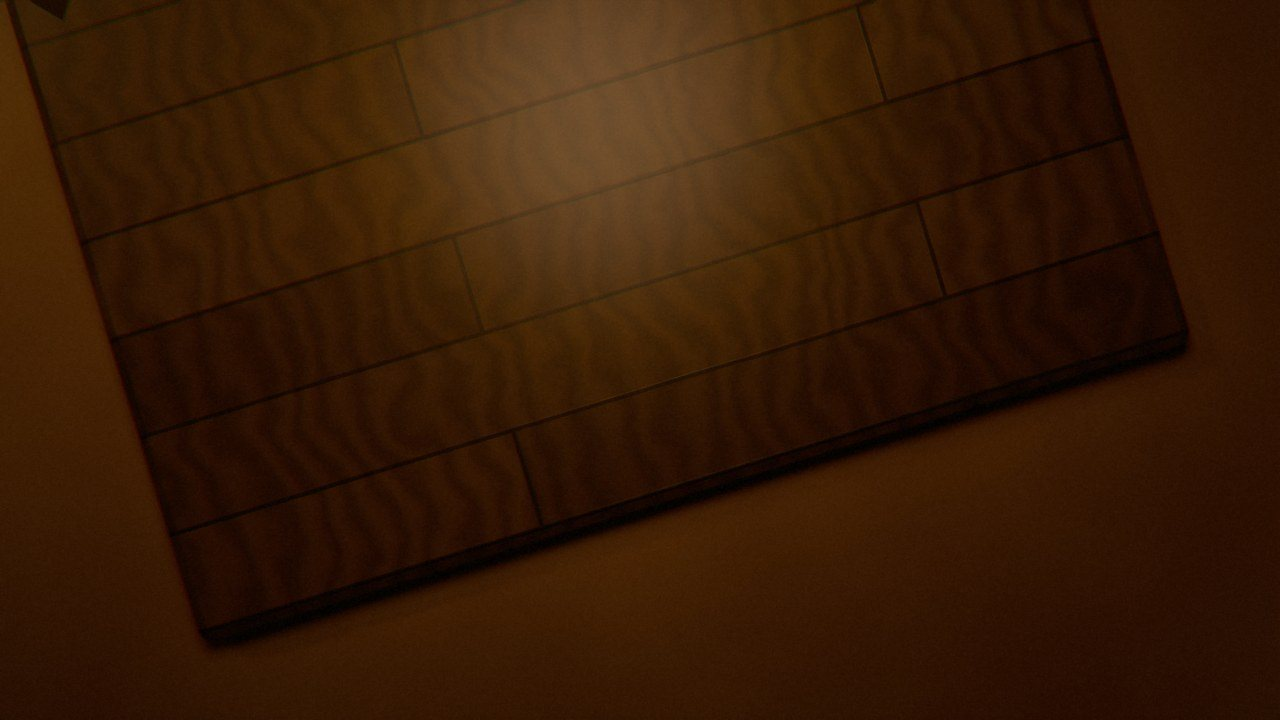
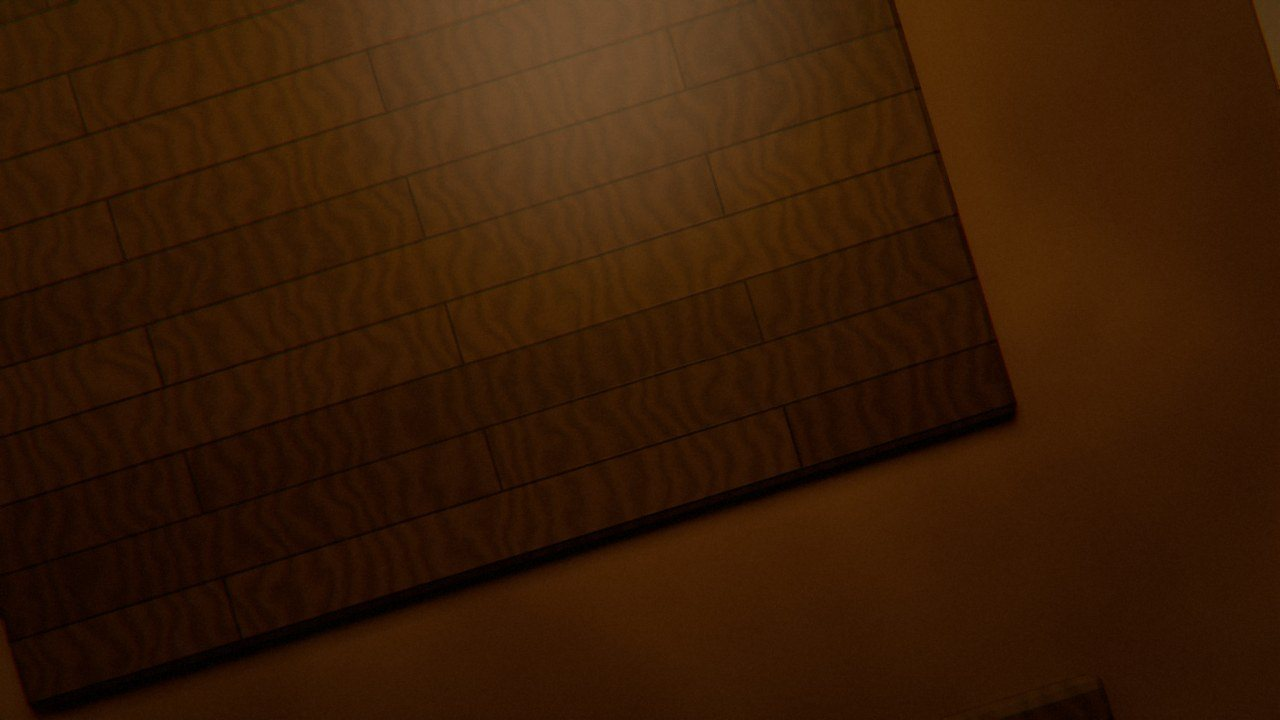
Chapter 1 door: five-frame swing that shuts fully across the tilted view
Claude-Session: https://claude.ai/code/session_017aRE9KzReX3GXwj8sX4dxv

diff --git a/game/index.html b/game/index.html
@@ -1100,7 +1100,7 @@ if (typeof module !== 'undefined') module.exports = C1;
     'ringtone', 'phone_pickup', 'phone_hangup', 'line_static',
     'wing_flap', 'wing_flap_far', 'wind_gust', 'beetles', 'beetle_scatter', 'aparador_creak', 'kumot_breath', 'theme_menu',
     'step_w1', 'step_w2', 'step_w3', 'step_c1', 'step_c2', 'step_c3'];
-  IMG.push('c1_door_sw40', 'c1_door_sw22', 'c1_door_sw8', 'c1_hub', 'c1_hub_open', 'c1_hub_kumot', 'c1_hub_lit', 'c1_door_ajar', 'c1_peek_0', 'c1_peek_1', 'c1_peek_2', 'c1_peek_3', 'c1_door_closed', 'c1_win_closed', 'c1_win_shadow', 'c1_win_open',
+  IMG.push('c1_door_sw80', 'c1_door_sw62', 'c1_door_sw46', 'c1_door_sw32', 'c1_door_sw18', 'c1_hub', 'c1_hub_open', 'c1_hub_kumot', 'c1_hub_lit', 'c1_door_ajar', 'c1_peek_0', 'c1_peek_1', 'c1_peek_2', 'c1_peek_3', 'c1_door_closed', 'c1_win_closed', 'c1_win_shadow', 'c1_win_open',
     'c1_win_s1', 'c1_win_s2', 'c1_win_s3', 'c1_scare_barang', 'hero_barang', 'c1_under', 'c1_under_kumot');
   for (var _i = 0; _i < 5; _i++) IMG.push('c1_cab_' + _i, 'c1_cab_' + _i + '_lit');
   var VOICE = [];
@@ -1857,7 +1857,7 @@ if (typeof module !== 'undefined') module.exports = C1;
   // the door swinging shut (or back open) in three pre-rendered frames, then the held/ajar view
   var swing = null;
   function c1Swing(close) {
-    var all = ['c1_door_sw40', 'c1_door_sw22', 'c1_door_sw8'], seq = close ? all : all.slice().reverse(), start = 0;
+    var all = ['c1_door_sw80', 'c1_door_sw62', 'c1_door_sw46', 'c1_door_sw32', 'c1_door_sw18'], seq = close ? all : all.slice().reverse(), start = 0;
     if (swing) { clearTimeout(swing.to); var cur = swing.seq[swing.i]; start = Math.max(0, seq.indexOf(cur)); }
     swing = { seq: seq, i: start, close: close };
     play(close ? 'door_creak' : 'door_creak', { vol: close ? 0.4 : 0.3 });
@@ -1870,7 +1870,7 @@ if (typeof module !== 'undefined') module.exports = C1;
           var c = swing.close; swing = null; setView(true, true);
           if (c) { play('door_close_shut', { vol: 0.85 }); jolt(); }
         } else step();
-      }, close ? 75 : 95);
+      }, close ? 70 : 80);
     })();
   }
   function c1Hold() {
